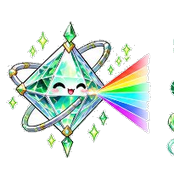
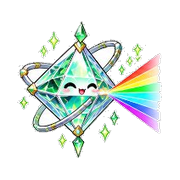
V56.1: Clean 29 clipped spirit sprites (incl. spirit_69), separate story enemies from random pools, and link dungeon infiltration to story boss -15% HP & intel

diff --git a/app.js b/app.js
@@ -331,7 +331,10 @@ function rollBreakingNews() {
   const availDists = SEOUL_DISTRICTS.filter((d) => (d.minLv || 1) <= heroLv + 4);
   const distPool = availDists.length > 0 ? availDists : [SEOUL_DISTRICTS[0]];
   const dist = distPool[Math.floor(Math.random() * distPool.length)];
-  const pool = (dist.villains || []).filter((id) => VILLAINS.some((v) => v.id === id) || GUERRILLA_VILLAINS.some((v) => v.id === id));
+  const pool = (dist.villains || []).filter((id) => {
+    const v = VILLAINS.find((x) => x.id === id) || GUERRILLA_VILLAINS.find((x) => x.id === id);
+    return v && !isStoryExclusiveEnemy(v);
+  });
   const enemyId = pool.length ? pool[Math.floor(Math.random() * pool.length)] : 'shorts_terrorist';
   const enemy = getEnemyById(enemyId);
   state.breakingNews = {
@@ -2171,19 +2174,29 @@ function getGearPowerScore(g, plus = 0) {
   return (g.atk || 0) + plus * 3 + ((g.def || 0) + plus * 2) * 0.9 + (g.crit || 0) * 80 + (g.reflect || 0) * 60 + (g.spRegen || 0) * 1.5;
 }
 
+function isStoryExclusiveEnemy(v) {
+  if (!v) return false;
+  if (v.storyOnly || v.isActBoss || isBossId(v.id) || v.id === HIDDEN_BOSS.id) return true;
+  if (String(v.id || '').startsWith('act_')) return true;
+  if (STORY_CHAPTERS.some((c) => c.bossId === v.id)) return true;
+  if (ACT_VILLAINS.some((a) => a.id === v.id)) return true;
+  return false;
+}
+
 function pickLevelAppropriateVillain(pool, heroLv = state.level || 1) {
-  const lv = Math.max(1, Number(heroLv) || 1);
-  const filtered = pool.filter((v) => {
+  const nonStoryPool = pool.filter((v) => !isStoryExclusiveEnemy(v));
+  const safePool = nonStoryPool.length > 0 ? nonStoryPool : VILLAINS.filter((v) => !isStoryExclusiveEnemy(v));
+  const filtered = safePool.filter((v) => {
     const dId = v.district || getDistrictIdForEnemy(v.id);
     const dInfo = SEOUL_DISTRICTS.find((d) => d.id === dId);
     return (dInfo?.minLv || 1) <= lv + 4;
   });
-  const candidates = filtered.length > 0 ? filtered : pool.filter((v) => {
+  const candidates = filtered.length > 0 ? filtered : safePool.filter((v) => {
     const dId = v.district || getDistrictIdForEnemy(v.id);
     const dInfo = SEOUL_DISTRICTS.find((d) => d.id === dId);
     return (dInfo?.minLv || 1) <= 15;
   });
-  const finalPool = candidates.length > 0 ? candidates : pool;
+  const finalPool = candidates.length > 0 ? candidates : safePool;
   return finalPool[Math.floor(Math.random() * finalPool.length)] || VILLAINS[0];
 }
 
@@ -2285,7 +2298,15 @@ function startBattle(enemyId, isRandomEncounter = false) {
     state.sp = clamp((state.sp || 0) + 15, 0, state.maxSp);
     extraLog += '\n👻 [정령 Lv.10+ 각성] 전투 시작 사이다 +15 충전!';
   }
-  state.enemyMaxHp = enemy.maxHp;
+  let sabHp = enemy.maxHp;
+  const sabKey = baseEnemy.actId || state.currentAct || 'seoul';
+  if (isBossEnemy && state.infiltrationSabotage?.[sabKey]) {
+    sabHp = Math.max(1, Math.round(sabHp * 0.85));
+    state.infiltrationSabotage[sabKey] = false;
+    extraLog += `\n💣 [아지트 침투 연계!!] 사전 보급로 파괴! 보스 멘탈 -15% 약화 상태로 돌입!`;
+    state.infiltrationQuoteOverride = '"크윽... 방금 네 녀석이 우리 아지트 보급로를 털고 왔다면서?!"';
+  }
+  state.enemyMaxHp = sabHp;
   state.enemyStunned = false;
   state.enemyExcuseShield = false;
   state.enemyGuardShield = 3;
@@ -2347,7 +2368,8 @@ function startBattle(enemyId, isRandomEncounter = false) {
   state.tagSkillUsedThisBattle = false;
   state.streamMission = STREAM_MISSIONS[Math.floor(Math.random() * STREAM_MISSIONS.length)];
   state.goldenMission = Math.random() < 0.22;
-  state.quote = enemy.introQuote || enemy.banterQuotes?.[0] || '"뭐야 넌?!"';
+  state.quote = state.infiltrationQuoteOverride || enemy.introQuote || enemy.banterQuotes?.[0] || '"뭐야 넌?!"';
+  state.infiltrationQuoteOverride = null;
   state.log = `[${enemy.location}]에서 [${enemy.name}]과(와) 마주쳤습니다!${extraLog}`;
   saveGame();
   render();
@@ -3600,7 +3622,7 @@ function render() {
         }
       };
       delete elWildSpiritSprite.dataset.retried;
-      elWildSpiritSprite.src = `${sp.img}?v=123`;
+      elWildSpiritSprite.src = `${sp.img}?v=143`;
       elWildSpiritSprite.className = 'wild-spirit-sprite';
       if (capRes?.status === 'resonating') elWildSpiritSprite.classList.add('is-resonating');
       else if (capRes?.status === 'caught') elWildSpiritSprite.classList.add('is-caught-fly');
@@ -3683,7 +3705,7 @@ function render() {
         elRomMgOverlay.classList.remove('hidden');
         elRomMgPanel.innerHTML = `
           <div style="text-align:center;margin-bottom:8px;">
-            <img src="${sp.img}?v=123" alt="${sp.name}" style="width:68px;height:68px;object-fit:contain;" />
+            <img src="${sp.img}?v=143" alt="${sp.name}" style="width:68px;height:68px;object-fit:contain;" />
             <div style="font-weight:900;font-size:16px;margin-top:4px;">💫 ${sp.name} — ${capRes.label}</div>
             <div style="font-size:12px;color:#fde047;font-weight:800;">기본 포획률 ${capRes.baseRate}% · 🎯 중앙 골드존 +25% · ✨ +10%</div>
           </div>
@@ -7578,7 +7600,7 @@ function render() {
     const eqSpCombat = getSpiritBonuses().spirit;
     if (elSpiritSprite) {
       elSpiritSprite.classList.toggle('hidden', !eqSpCombat);
-      if (eqSpCombat) elSpiritSprite.src = `${eqSpCombat.img}?v=123`;
+      if (eqSpCombat) elSpiritSprite.src = `${eqSpCombat.img}?v=143`;
     }
     elQuoteBubble.classList.add('hidden');
     elBattleLog.textContent = (state.quote ? `💬 ${state.quote}\n` : '') + (state.log || '');
@@ -9809,7 +9831,7 @@ function openSpiritModal(filterEl = 'all') {
       const spLive = getSpiritBonuses(sp.id);
       const spMs = prog.lv >= 20 ? '🌟만렙각성(협공1.5배)' : (prog.lv >= 10 ? '⚡시작SP+15' : (prog.lv >= 5 ? '💥협공률+10%' : 'Lv.5 협공↑'));
       card.innerHTML = `
-        <img src="${sp.img}?v=123" alt="${sp.name}" class="item-thumb" style="width:44px;height:44px;object-fit:contain;" />
+        <img src="${sp.img}?v=143" alt="${sp.name}" class="item-thumb" style="width:44px;height:44px;object-fit:contain;" />
         <div class="inv-info">
           <h4 style="color:${rInfo.color};">[${rInfo.short}] ${getSpiritDisplayName(sp)} <span style="color:#0369a1;">Lv.${prog.lv}/20</span> · ★${lv}/5 ${isEq ? '✅동행중' : ''} ${spLive.isLucky ? `<span style="background:#10b981;color:#fff;padding:1px 5px;border-radius:6px;font-size:0.65rem;">🍀행운×${spLive.luckyMult}</span>` : ''}</h4>
           <p><b style="color:#0f766e;">⚡ 현재 버프: 공격 +${spLive.atk}${spLive.spRegen ? ` · 사이다+${spLive.spRegen}` : ''}${spLive.crit ? ` · 치명+${(spLive.crit * 100).toFixed(1)}%` : ''} · 속성+${Math.round(spLive.elemBoost * 100)}%</b> <span style="font-size:0.68rem;color:#b45309;">[${spMs}]</span><br/>${sp.desc}<br/><span style="color:#1e40af;font-size:0.68rem;">📍 출몰: ${sp.zoneHint}</span></p>
@@ -11592,10 +11614,21 @@ function startActDungeon(act, depth = 1) {
   if (depth >= 4) {
     const bossBtn = document.createElement('button');
     bossBtn.className = 'activity-item-btn';
-    bossBtn.innerHTML = '<div class="act-title">👑 던전 보스방 돌입!!</div><div class="act-desc">지역 보스 격파 & 정령석 획득 찬스!</div>';
+    bossBtn.style.borderColor = '#dc2626';
+    bossBtn.style.background = '#fef2f2';
+    bossBtn.innerHTML = `<div class="act-title">💣 [${act.name}] 아지트 보급로 폭파 & 보스 첩보 탈취!!</div><div class="act-desc">스토리 보스 HP -15% 약화 + 첩보 해독 + 80P · 고철+2 획득!</div>`;
     bossBtn.addEventListener('click', () => {
+      if (!state.infiltrationSabotage) state.infiltrationSabotage = {};
+      state.infiltrationSabotage[act.id] = true;
+      state.points += 80;
+      state.scrap = (state.scrap || 0) + 2;
+      grantIntel(1, '아지트 침투');
+      sfx.victory();
       elActivityModal.classList.add('hidden');
-      startBattle(act.bossId);
+      showToast(`💣 [${act.name}] 침투 작전 성공!! 다음 스토리 보스 HP -15% 약화 & 첩보+1!`, 'break');
+      state.log = `💣 [${act.dungeonName}] 보급로를 완벽히 파괴했습니다! (+80P · 고철+2 · 다음 스토리 보스 멘탈 -15% 약화!)`;
+      saveGame();
+      render();
     });
     elActivityList.appendChild(bossBtn);
     return;
@@ -11613,7 +11646,7 @@ function startActDungeon(act, depth = 1) {
     btn.addEventListener('click', () => {
       const r = Math.random();
       if (r < 0.35) {
-        const mob = ACT_VILLAINS.find((v) => v.actId === act.id && !v.isActBoss) || VILLAINS[0];
+        const mob = pickLevelAppropriateVillain(VILLAINS, state.level || 1);
         elActivityModal.classList.add('hidden');
         showToast('⚔ 던전 매복 빌런 출현!', 'warn');
         startBattle(mob.id, true);

diff --git a/index.html b/index.html
@@ -357,6 +357,6 @@
     <div class="rom-mg-panel" id="rom-mg-panel"></div>
   </div>
 
-  <script type="module" src="app.js?v=142"></script>
+  <script type="module" src="app.js?v=143"></script>
 </body>
 </html>

diff --git a/DEV_MEMO.md b/DEV_MEMO.md
@@ -5,7 +5,11 @@
 - **저장소**: `https://github.com/ddaggumine-arch/citizen-hero-rpg.git` (`main` 브랜치 푸시 시 GitHub Pages 자동 배포)
 - **기술 스택**: 순수 HTML / CSS / Vanilla JS ES Modules (React / Remotion 미사용)
 
-## 현재 최신 버전: V56.0 (GitHub Pages 배포됨)
+## 현재 최신 버전: V56.1 (GitHub Pages 배포됨)
+- **V56.1 (`?v=143`)**:
+  - **29종 정령(`spirit_69.png` 천마 포함) 인접 조각 자동 클리닝**: 가장자리 삐져나온 옆 정령 날개·발톱 제거 & 중앙 재정렬.
+  - **스토리 적 vs 필드 돌발 적 100% 분리 (`isStoryExclusiveEnemy`)**: 순찰·112 속보·지명수배·던전 매복에서 스토리/액트/보스 적이 뜬금없이 등장하지 않도록 차단.
+  - **아지트 침투 ↔ 스토리 보스 유기적 연계 (`startActDungeon`)**: 던전 4층 침투 완료 시 `💣 보급로 폭파 & 첩보 탈취` → 현재 스토리 보스 첩보 +1 & 다음 보스전 시작 HP -15% 약화 + 전용 대사 발동!
 - **V56.0 (`?v=142`)**:
   - **오프닝 인트로 이미지 누락 수정 & 수호정령 추가 (`app.js`, `index.html`)**: 누락된 `romance/triple_picnic.jpg` 경로를 `assets/images/triple_picnic.jpg` 로 수정하고, `spirit_43/50/100.png` 수호정령 스프라이트를 오프닝에 정식 합류.
   - **통합 시네마틱 아웃트로 엔진 (`playCinematicSequence`) + 10종 아웃트로 추가**:
